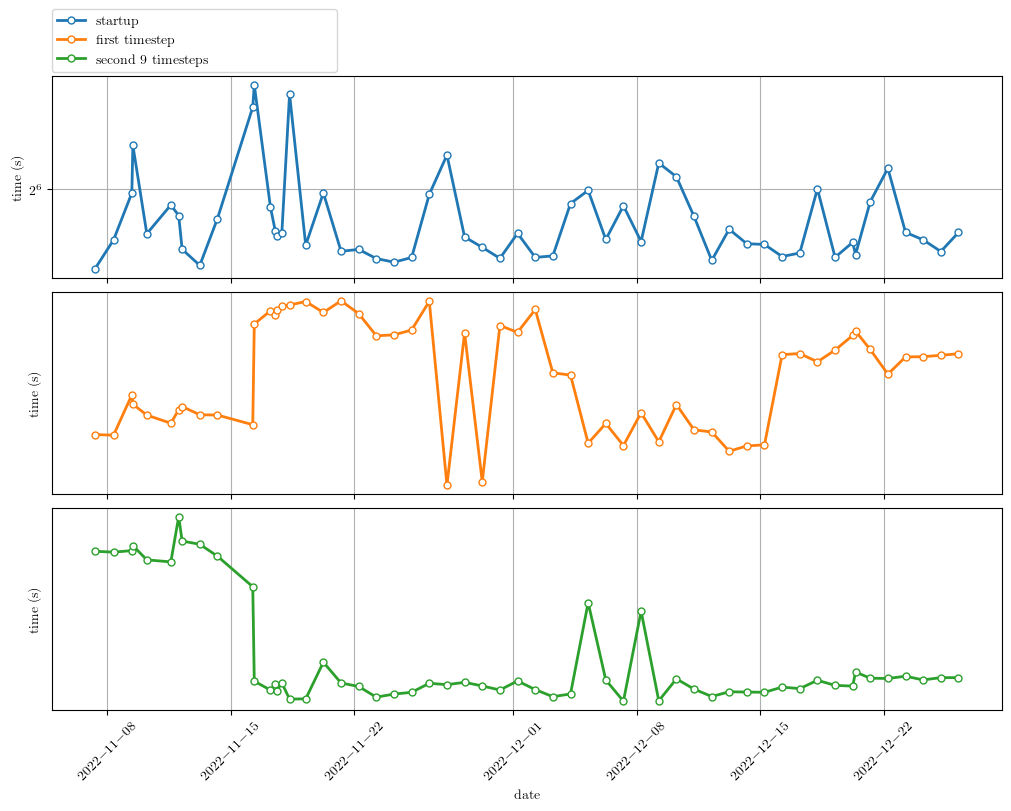
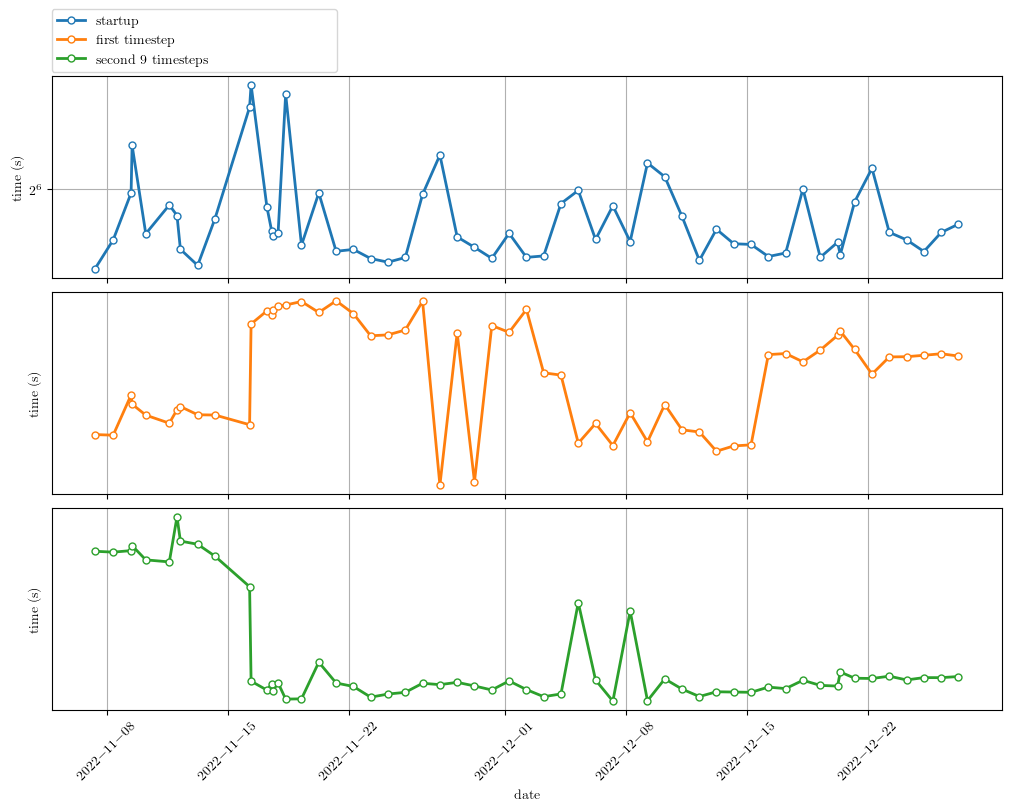
Automatic timing summary commit: lassen708 2022-12-27 05:01

diff --git a/README.md b/README.md
@@ -1,4 +1,4 @@
-Timings last ran on: 2022.12.26
+Timings last ran on: 2022.12.27
 
 # Status of production timings
 
